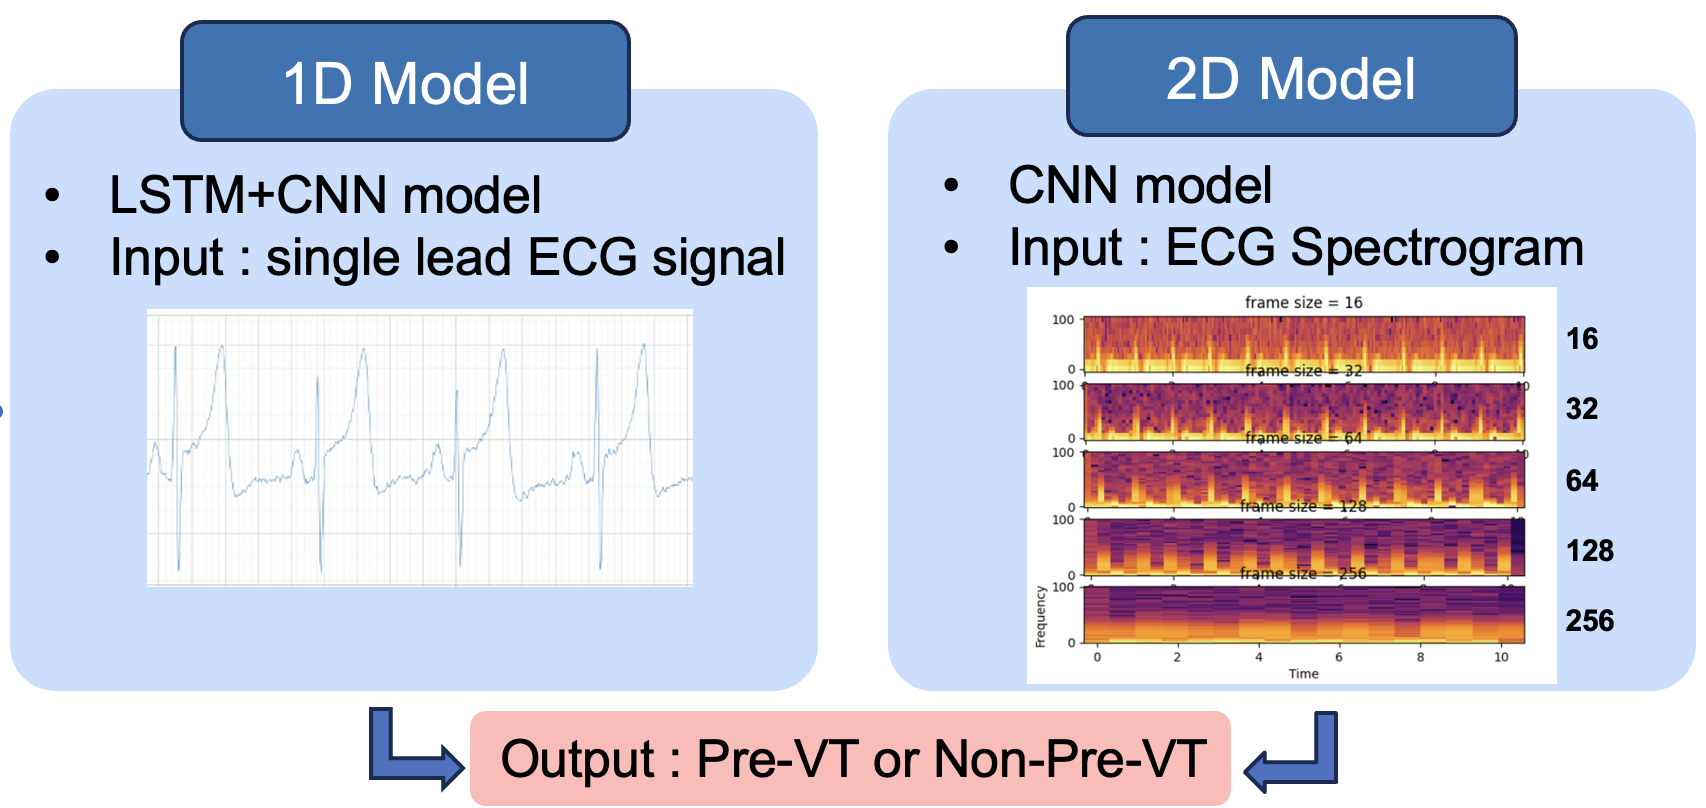
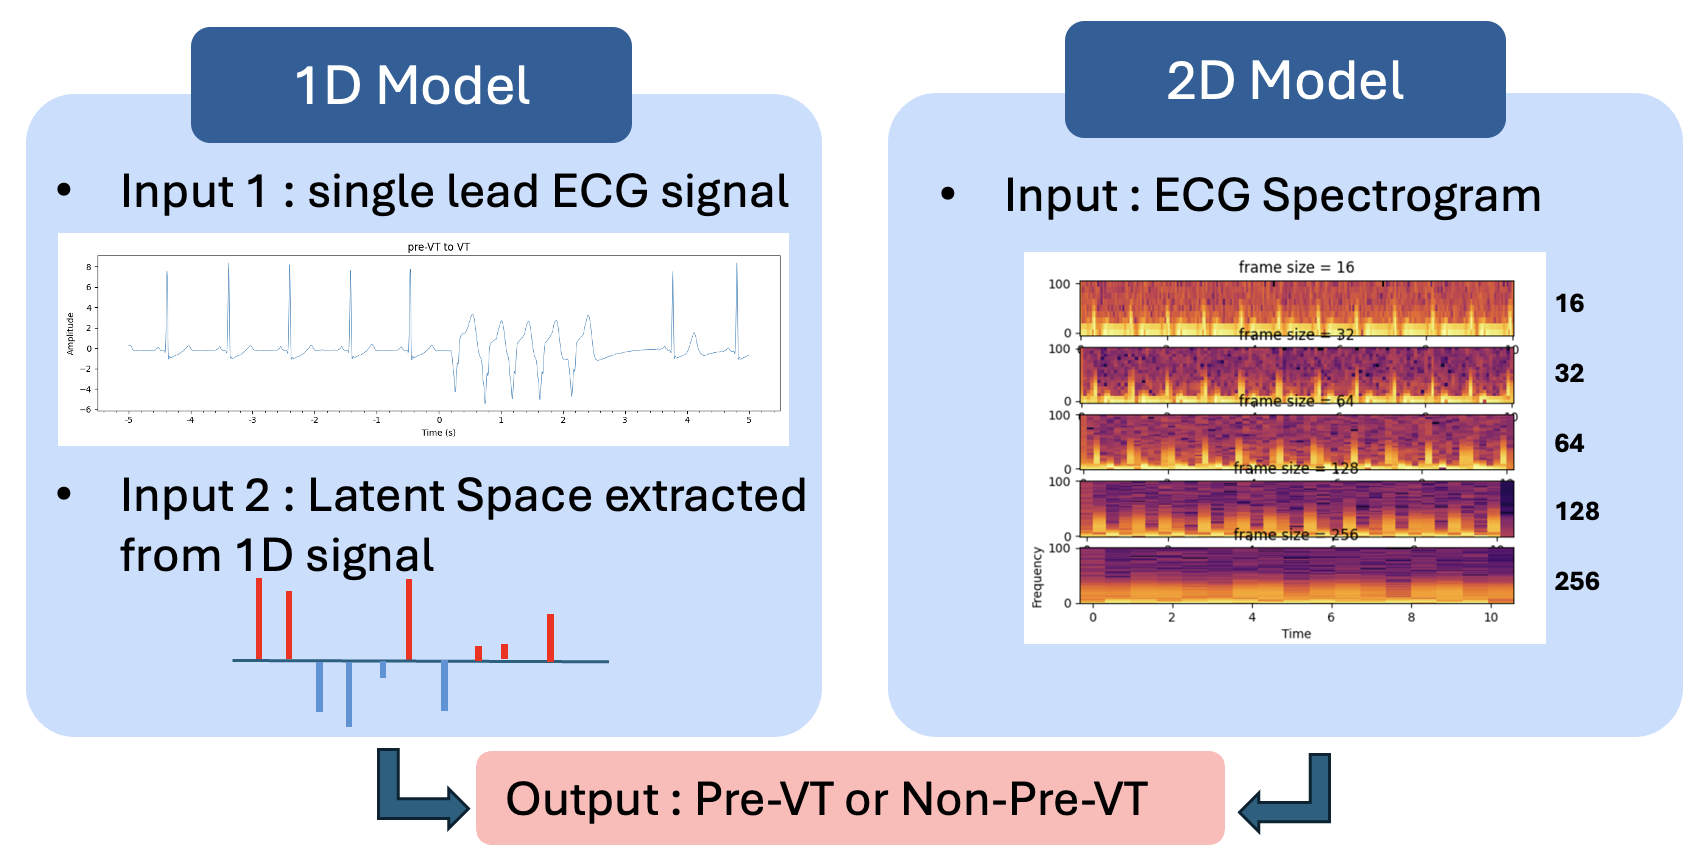
modify p1

diff --git a/project/Project1/index.html b/project/Project1/index.html
@@ -107,7 +107,7 @@
 <p style="font-size:22px; color:#7B7B7B;">Therefore, the goal of this project is to develop a deep learning model capable of detecting impending VT in patients in advance. This predictive capability would enable patients to modify their behavior to avoid dangerous situations. For instance, if they are driving, they could pull over before the onset of VT, thereby preventing potential accidents.
 </p>
 <p style="font-size:25px; color:#7B7B7B;"><strong>Methods</strong></p>
-<p style="font-size:22px; color:#7B7B7B;">For 1D ECG signal data, I use an LSTM model for prediction. Additionally, I integrate a VAE (Variational Autoencoder) to extract features, which are then used for the prediction task. For 2D data, I first transform the raw data into a spectrogram using FFT (Fast Fourier Transform) and then train a CNN model on the transformed data. I also compare the performance of three pre-trained models to evaluate their effectiveness.</p>
+<p style="font-size:22px; color:#7B7B7B;">For 1D ECG signal data, I use two kinds of model for prediction. The First one is LSTM model directly using ECG signal as input, while the second one is integrating a VAE (Variational Autoencoder) model to extract features, which are then used for the prediction task with random forest. For 2D data, I first transform the raw data into a spectrogram using FFT (Fast Fourier Transform) and then train a 2D CNN model on the transformed data. I also compare the performance of three pre-trained models to evaluate their effectiveness.</p>
 
 <img src="https://vickyeh.github.io/images/projects/project1-1.jpg" alt="project image" style="display: block; margin: 0 auto; width: 500px;">
 <br>
